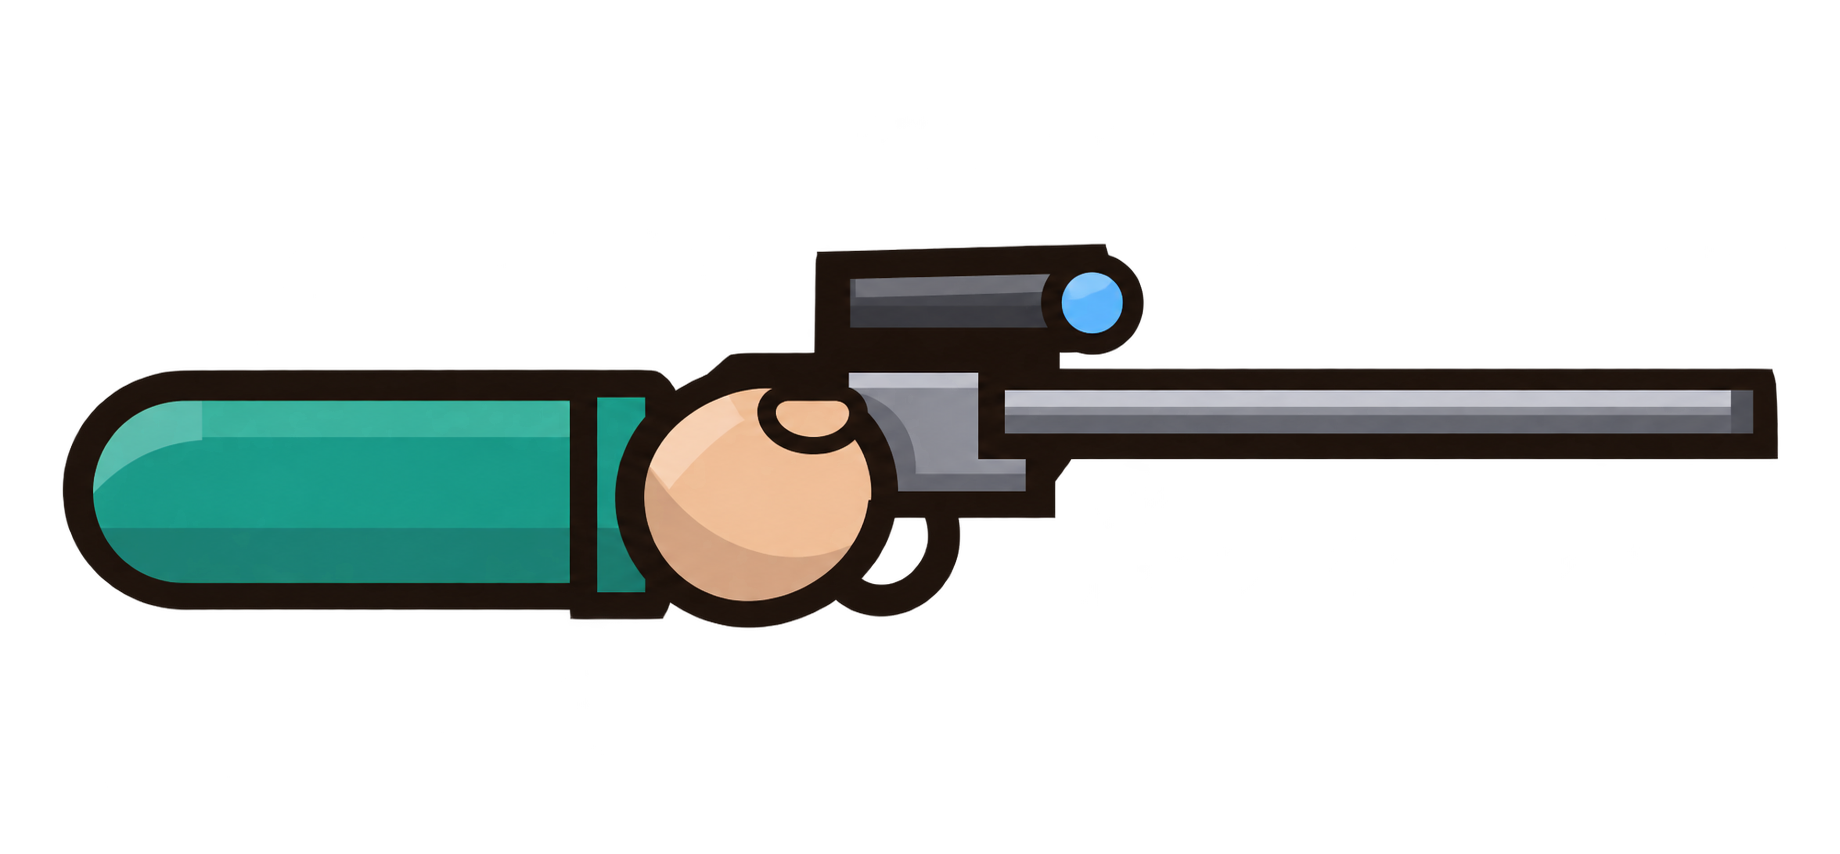
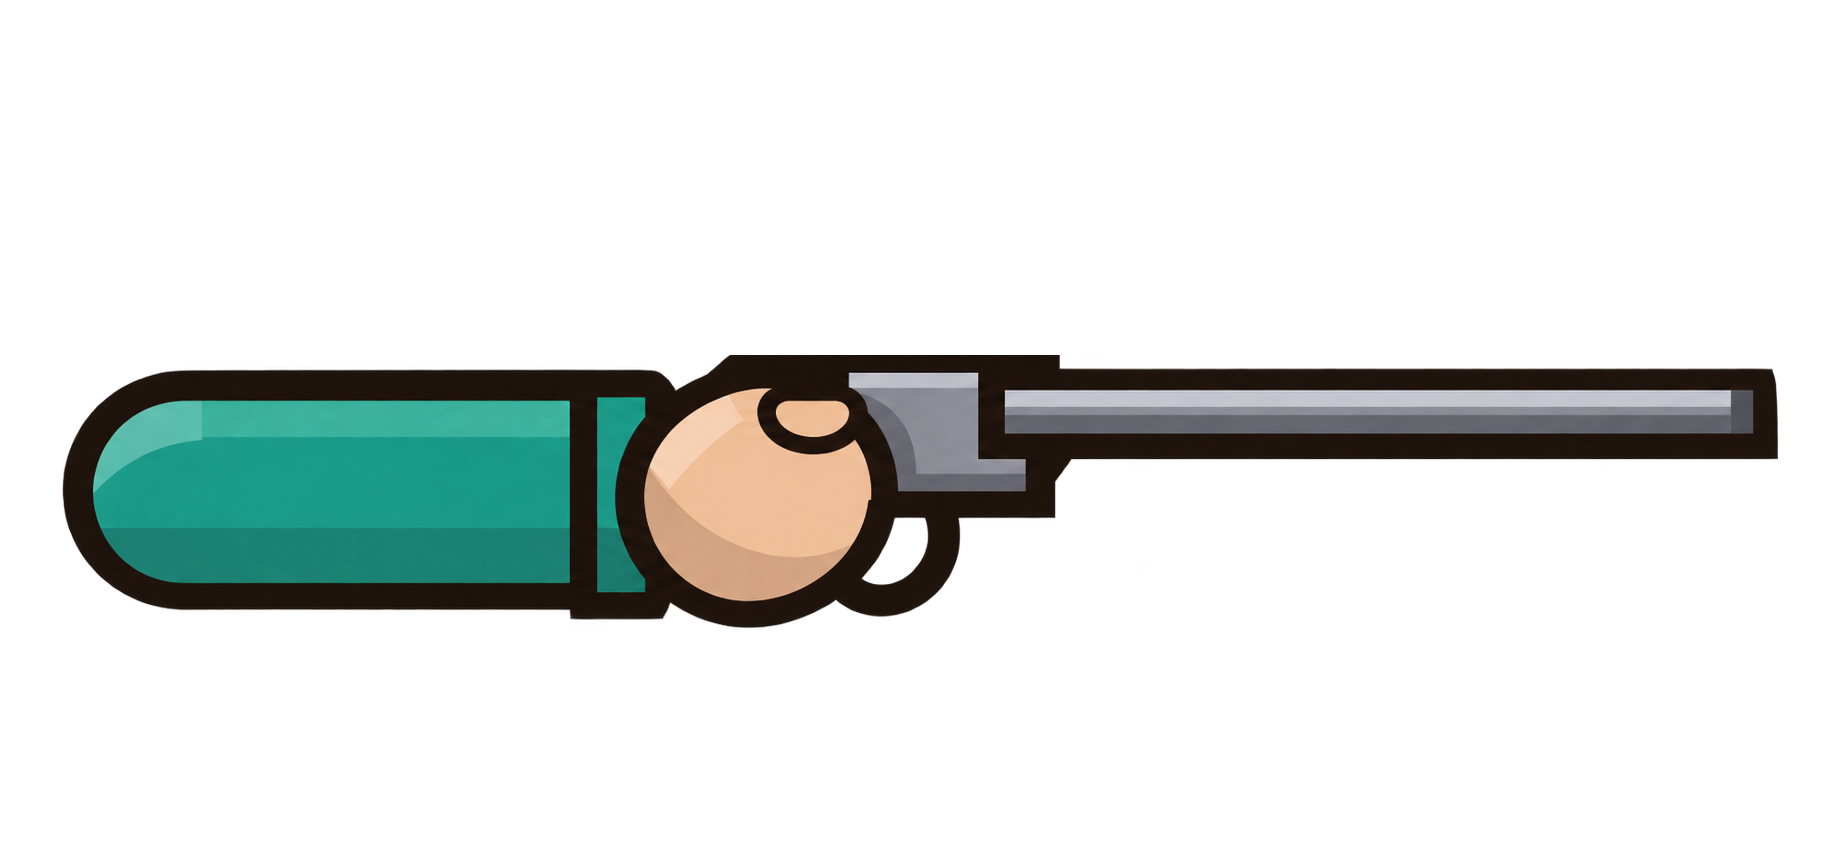
Take the telescopic sights off the rifles and remove the depot sign from the station backdrop
The scopes didn't fit the period: removed from the sheriff's, Rifleman's and gunslinger's rifle art
(originals kept) and from the code-drawn rifle, which gets a plain front sight. The DEPOT sign sat
right behind the menu's signpost.

Claude-Session: https://claude.ai/code/session_01BFBgQDRtwohmswCU4dZyTG

Changed region(s): [[0.4027, 0.274, 0.6196, 0.4262]]

diff --git a/src/biomes.js b/src/biomes.js
@@ -273,13 +273,11 @@ function drawStation(scene) {
   canvasTexture(scene, 'station-mid', W, MID_H, (c, w, h) => {
     const base = h - 20;
     c.fillStyle = '#121a33';
-    // Depot with a sign and lit windows
+    // Depot with lit windows (no sign: it sat right behind the menu's signpost)
     c.fillRect(60, base - 170, 300, 170);
     c.beginPath(); c.moveTo(40, base - 170); c.lineTo(210, base - 230); c.lineTo(380, base - 170); c.fill();
     c.fillStyle = '#f4c46a';
     [[90, 100], [150, 100], [270, 100], [320, 100]].forEach(([x, y]) => c.fillRect(x, base - y - 40, 26, 34));
-    c.fillStyle = '#c9a36a'; c.fillRect(150, base - 160, 120, 24);
-    c.fillStyle = '#121a33'; c.font = 'bold 18px Georgia'; c.textAlign = 'center'; c.fillText('DEPOT', 210, base - 142);
     // Boxcars with wheels
     const car = (x) => {
       c.fillStyle = '#16203e'; c.fillRect(x, base - 110, 200, 90);

diff --git a/src/gunslinger.js b/src/gunslinger.js
@@ -70,8 +70,7 @@ export function drawGun(g, type, sleeve, skin) {
   } else if (type === 'rifle') {
     rect(g, steel, 34, -8, 20, 9);
     rect(g, dark, 52, -7, 46, 4);
-    rect(g, 0x2d2d33, 40, -15, 16, 5);
-    circle(g, 0x6bb8ff, 56, -12.5, 2.4, 1.2);
+    rect(g, dark, 92, -10, 3, 3, 1.2); // front sight
     line(g, 0xc8c8d0, 54, -6.2, 96, -6.2, 1);
     g.lineStyle(1.6, INK); g.strokeCircle(44, 4, 3.5);
   } else if (type === 'dynamite') {

diff --git a/tools/remove_rifle_scope.py b/tools/remove_rifle_scope.py
@@ -1,0 +1,37 @@
+# Remove the telescopic sight from a refined rifle-arm image (scopes don't fit the period).
+#
+#   python3 -I tools/remove_rifle_scope.py SRC OUT CUT_Y X_MAX
+#
+# Everything above CUT_Y (the top of the receiver's outline) left of X_MAX is cleared; where light
+# mount pixels end up on top, they are inked so the new top edge keeps its outline.
+import sys
+from PIL import Image
+
+src, out, cut, xmax = sys.argv[1], sys.argv[2], int(sys.argv[3]), int(sys.argv[4])
+im = Image.open(src).convert('RGBA')
+px = im.load()
+
+def dark(p):
+    return p[3] > 100 and p[0] < 70 and p[1] < 55 and p[2] < 50
+
+# outline thickness: the shortest dark run starting at the cut line among columns that had nothing above
+runs = []
+for x in range(0, xmax):
+    if px[x, cut][3] > 100 and px[x, cut - 3][3] < 50 and dark(px[x, cut + 1]):
+        y = cut
+        while y < im.height and dark(px[x, y]):
+            y += 1
+        runs.append(y - cut)
+T = min(22, max(10, sorted(runs)[len(runs) // 2])) if runs else 16
+
+for x in range(0, xmax):
+    for y in range(0, cut):
+        px[x, y] = (0, 0, 0, 0)
+    # the new top edge needs an outline: where light mount pixels are now on top, paint them dark
+    top = next((yy for yy in range(cut, im.height) if px[x, yy][3] > 100), None)
+    if top is not None and not dark(px[x, top]):
+        for yy in range(top, min(im.height, top + T)):
+            if px[x, yy][3] > 100:
+                px[x, yy] = (29, 17, 10, 255)
+im.save(out)
+print(src, 'outline', T)

diff --git a/docs/character-parts/README.md b/docs/character-parts/README.md
@@ -92,6 +92,7 @@ The head, torso, leg, revolver arm and hat have been **fitted** and are used for
 | `refined/sheriff_reference.webp` | 1080 × 1456 | Style reference showing the **intended appearance**. It was generated as a whole image and is not proof that the parts align; `_fit_check.png` is the alignment check. |
 | `refined/sheriff_head.webp` | 1327 × 1185 | **Fitted**: skull height 40 units, centred on the head hit circle. Eyes are baked in; on death the game swaps in `refined/sheriff_head_dead.webp` (same canvas, same placement). |
 | `refined/sheriff_arm_shotgun.webp`, `sheriff_arm_rifle.webp`, `sheriff_arm_dynamite.png`, `sheriff_offhand_arm_revolver.png` | various | **Fitted** like the revolver arm (sleeve 15 units, shoulder 7 units in). Muzzles: shotgun (101.9, -6.1), rifle (116.9, -6.1, the longest gun), dynamite fuse tip (52.4, -25.7), off-hand revolver (78.9, -7.4). The off-hand art is drawn darker already, so the game doesn't tint it. |
+| `refined/*_arm_rifle.png` (sheriff, Rifleman, gunslinger) | various | The telescopic sights were removed (they don't fit the period) with `tools/remove_rifle_scope.py`; the originals are kept as `*_arm_rifle_scope_original.*`. |
 | `refined/sheriff_armor_plate.webp` | 1312 × 1199 | **Fitted**: 44 units wide, centred on the chest at (0, -68). |
 | `refined/sheriff_torso.webp` | 1335 × 1178 | **Fitted**: poncho shoulder width 46 units, top edge at y = -93. Slightly wider at the fringe than the original (66 vs 62 units). |
 | `refined/sheriff_leg.webp` | 953 × 1651 | **Fitted**: 44.5 units from hip to sole plus 2.5 units of hidden overlap above the hip. Pants about 14 units wide (original 13). The back leg is the same image, tinted darker. |

diff --git a/README.md b/README.md
@@ -47,7 +47,7 @@ Outlaws' perches follow the area (rock pillars in the desert and canyon, boxcar 
 | Drifter | 0 m | Stands, warns "!", shoots | Baseline |
 | Hider | 40 m | Crouches behind a barrel (it stops bullets), pops up only to shoot | Shoot when he's up |
 | Gambler | 80 m | Very short warning, fires often, low health | Drop him first |
-| Rifleman | 120 m | On rooftops/towers, long warning with a scope glint, heavy hits | Watch for the glint |
+| Rifleman | 120 m | On rooftops/towers, long warning with a glint off his rifle barrel, heavy hits | Watch for the glint |
 | Dynamite Dan | 160 m | Lobs dynamite that explodes where it lands | Shoot the stick mid-air (+5 coins) |
 
 Checkpoint bosses are either a gunslinger (rifle or twin revolvers) or **The Undertaker**, whose armored chest takes only 25% damage from body shots, so aim for the head. Each type shows a tip the first time you meet it. Types, unlock distances and stats live in `OUTLAWS` / `BOSS_TYPES` in `src/config.js`.

diff --git a/docs/character-parts/to-redraw/README.md b/docs/character-parts/to-redraw/README.md
@@ -13,4 +13,4 @@ Starting images for the parts that still need refined artwork. All PNGs are tran
 
 Outlaws: `gambler`, `rifleman`, `dynamite_dan`, `hider`, `undertaker`. Their weapons: revolver (Gambler, Hider, Undertaker), rifle (Rifleman), dynamite (Dynamite Dan).
 
-Pivots, muzzles and sizes follow the rules in [the parent README](../README.md). The rifle should be the longest gun: a lever-action with a full stock and the lever loop under the action, an optional scope, and no shotgun-style forend.
+Pivots, muzzles and sizes follow the rules in [the parent README](../README.md). The rifle should be the longest gun: a lever-action with a full stock and the lever loop under the action, no scope (it doesn't fit the period), and no shotgun-style forend.
